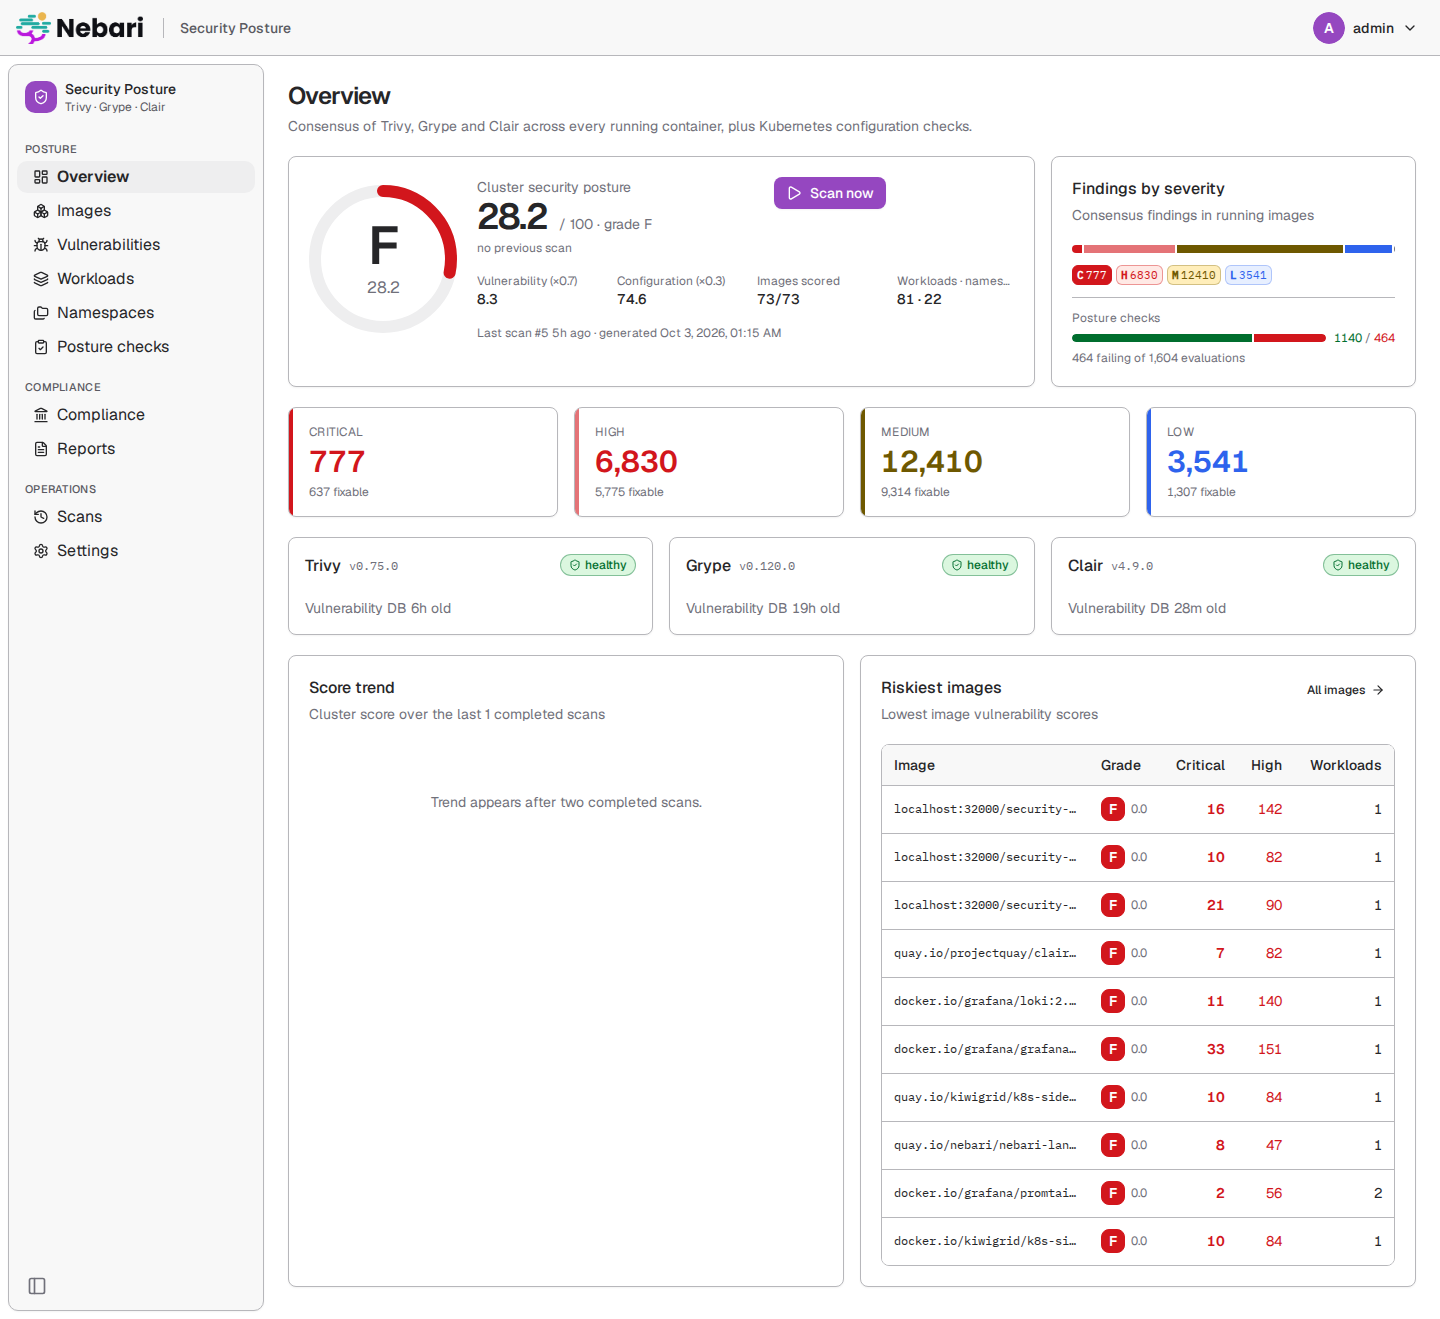
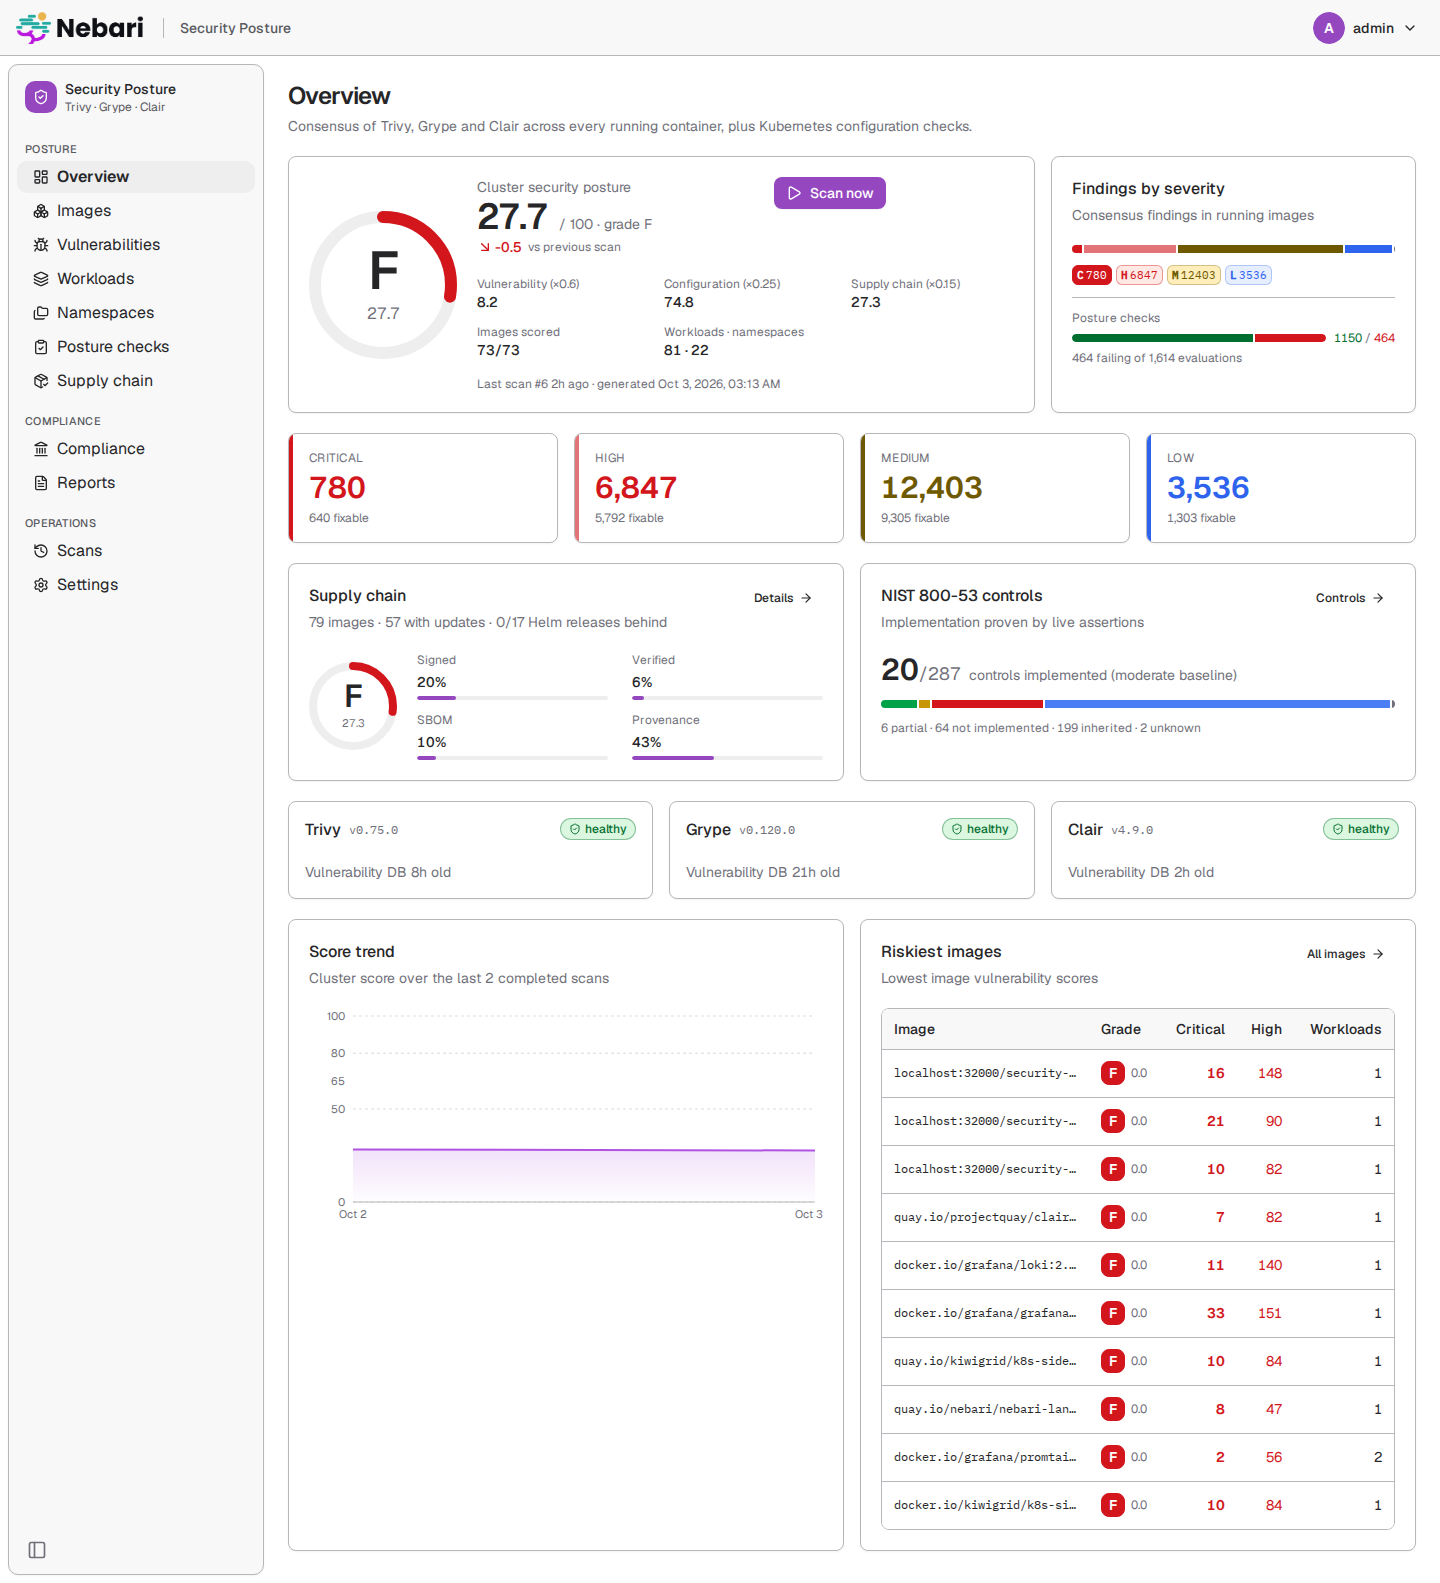
grace: phase-2 deployment status, live supply-chain/controls screenshots

diff --git a/docs/DECISIONS.md b/docs/DECISIONS.md
@@ -98,34 +98,52 @@
   `tests/conftest.py` sets `CONTROLS_ENGINE_ENABLED=false` by default so the shared worker harness
   never reaches a live cluster; `tests/controls_engine` enables it with fake clients.
 
-## Grace deployment status (2026-10-03)
+## Grace deployment status (2026-10-03, phase 2)
 
-- Deployed tag `cefb217-1790989563` = phase-1 code (`ca2a6a7`) plus the POA&M xlsx fix
-  (`663e268`, cherry-picked locally as `cefb217`); phase-2 code (§12/§13) is not deployed yet.
-  API limit 4Gi (one POA&M xlsx peaks at ~1.06 GiB; nine concurrent reports OOMKilled it at 1Gi).
-- Scan #5 (scheduled, 2026-10-02 20:33-20:40 UTC): 68 images, 67 scored, 1 failed; cluster
-  score 28.2, grade F (vuln 8.3, configuration 74.6); 24,668 consensus findings
-  (777 critical / 6,830 high / 12,410 medium / 3,541 low); posture checks 1,140 pass / 464 fail.
-  Scans #1-#4 failed during the bring-up (worker/Clair OOMKills and redeploys).
-- Scanner coverage on scan #5: trivy 67/68, grype 67/68, clair 61/68.
-- Known failures:
-  - `artifacts.100-89-230-107.sslip.io/ray/ray-polars:2.56.0`: all three scanners and the skopeo
-    mirror fail with `x509: certificate signed by unknown authority`. The node's containerd trusts
-    that registry through `certs.d/.../hosts.toml` (`ca = .../ca.crt`); the worker and Clair pods
-    do not have the CA. Environment configuration, not an adapter bug; needs a CA-bundle mount
-    (chart feature, not implemented).
-  - Clair `unexpected return status: 500` on 6 images (artifact-keeper-backend,
-    postgres:16-alpine, dependencytrack/apiserver, opensearch, 2x artifact-keeper-scanner-adapter):
-    exactly the first parallelism-6 batch at 20:33:42, while the Clair Deployment was being
-    rolled (helm revision 5 at 20:33:28 changed its memory limit). The new Clair pod never
-    received those requests (its log has no 5xx), so the old, terminating pod answered them.
-    Transient, not an adapter bug; the stale-on-scanner-error rule (`a1b71f3`) rescans these
-    images on the next scan. The adapter does not retry 5xx.
-- Report verification from scan #5 (admin via the gateway, sequential): every type/format
-  generates; POA&M xlsx 86 s (previously >15 min, quadratic), SAR PDF 125 s / 199 pages, OSCAL AR
-  81 MB valid against the OSCAL 1.1.2 schema.
-- Grace hazard: creating a docker network (e.g. `ui/screenshots/run.sh` creates `sp-shots`) adds a
-  host IP; MicroK8s `apiserver-kicker` then regenerates certs and restarts kubelite and containerd,
-  killing every pod for ~40 s (2026-10-03 00:45). Use `--network host` or an existing network.
-- Capacity: node memory requests are 99% allocated; the root filesystem (hostpath PVCs, local
-  registry) is 98% full (7.7 GB free); the Clair database is 8 GB of the 10Gi postgres PVC.
+- Deployed: api/worker `10f6df7-1790990443` (phase 2: §12 provenance + §13 control evidence
+  engine, `extraCACerts`), ui `72a5e81-1790990739` (findings pagination). Migrations
+  `0001 -> 0002_provenance -> 0003_controls_engine` applied by the api `migrate` init container.
+  Limits unchanged: api 4Gi, worker 16Gi, Clair 8Gi.
+- Values (`deploy/grace/values.yaml`): provenance on with Helm releases and the Grafana compat
+  Service (allowed from `monitoring`, `observability`); keyless cosign identity for
+  `registry.k8s.io` (krel-trust / accounts.google.com); controls engine MODERATE with
+  `adminSubjectsAllowlist: [admin]`, master-realm creds from `keycloak/nebari-realm-admin-credentials`,
+  Loki/Prometheus/Alertmanager in `observability`. `extraCACerts.secretName: nebari-ca` (the
+  cert-manager `nebari-ca-secret` CA, created by `deploy.sh`) fixed the `artifacts.*.sslip.io`
+  x509 failure: `ray/ray-polars:2.56.0` now mirrors and scans with trivy, grype and Clair.
+- Scan #6 (manual, force, 2026-10-03 01:24:53-01:31:13 UTC, 6m20s): 79 images, 79 scored,
+  0 failed; trivy/grype/Clair 79/79 each (the six scan-#5 Clair 500s are gone). Cluster score
+  27.7, grade F (vulnerability 8.2, configuration 74.8, supply chain 27.3 F); findings
+  780 critical / 6,847 high / 12,403 medium / 3,536 low; posture checks 1,150 pass / 464 fail.
+- Provenance (scan #6): 16 signed, 5 verified (all `registry.k8s.io`), 8 with SBOM, 34 with SLSA
+  provenance, 57 with updates, 17 Helm releases (0 behind: no `chartRepos`, so "not checked"),
+  6 registry errors, all Docker Hub `429` (kiwigrid/k8s-sidecar, curlimages/curl:8.9.1,
+  bitnami/redis, busybox:1.36, bitnami/postgresql, aquasec/trivy:0.75.0). Docker Hub 429 also
+  failed the skopeo mirror for `rayproject/ray:2.56.0` and `bitnami/postgresql:latest`; both were
+  scanned from the original ref. Signed-but-unverified (11) is expected: those images are signed
+  with other keys/identities than the configured keyless identity.
+- Control evidence engine (MODERATE): 35 assertions, 19 pass / 15 fail / 1 unknown
+  (`k8s-api-audit-logging`, MicroK8s). Versus the dev-time table (18/16/1) the only change is
+  `kc-admin-role-allowlist` (now pass: `admin` is allowlisted). Controls: 20 implemented,
+  6 partial, 62 not implemented, 199 inherited of 287 (catalog view: 292 incl. 5 out-of-baseline,
+  2 of them unknown).
+- Compat API: `security-posture-web-internal:8080/api/reports/latest` returns their schema
+  (`metadata`, `images` 99 per-workload entries / 78 unique, `helmReleases` 17, `summary`) from
+  `monitoring` without auth; from `default` the connection times out (NetworkPolicy).
+- Reports (scan #6, via the gateway): the 6 auto-generated reports completed; OSCAL SSP (0.43 MB,
+  290 implemented-requirements) and component definition (9 components) validate against the
+  OSCAL 1.1.2 schemas with 0 errors; the compliance package (POA&M xlsx 132 s, STIG cklb 30 s,
+  SAR pdf 228 s, OSCAL AR 37 s, SSP 19 s, queued concurrently) completed with no api restart.
+- Known issues:
+  - Update check follows upstream Masterminds/semver ordering, so numeric non-release tags win
+    "newest available" (e.g. cert-manager v1.16.2 -> `608111629`, grafana -> `9799770991`,
+    postgres 16-alpine -> `18.6`); `latestInMajor` is sane. These images are counted as
+    major-update-available; consider ignoring tags whose major is far above the current one.
+  - The image list and the Supply chain page include 7 images no longer running (old
+    `localhost:32000/security-posture-*` tags, no provenance): "74 of 86 images" there vs 79
+    in the scan.
+  - Docker Hub unauthenticated pull limits (see above); `registryAuth.existingSecret` would fix it.
+- Grace hazard: creating or removing a docker network adds/removes a host IP; MicroK8s
+  `apiserver-kicker` then regenerates certs and restarts kubelite and containerd, killing every
+  pod for ~40 s (2026-10-03 00:45). Use `--network host`; leave `sp-shots` alone.
+- Capacity: node memory requests are ~99% allocated; root filesystem 46 GB free (88%) after pruning superseded local images.
